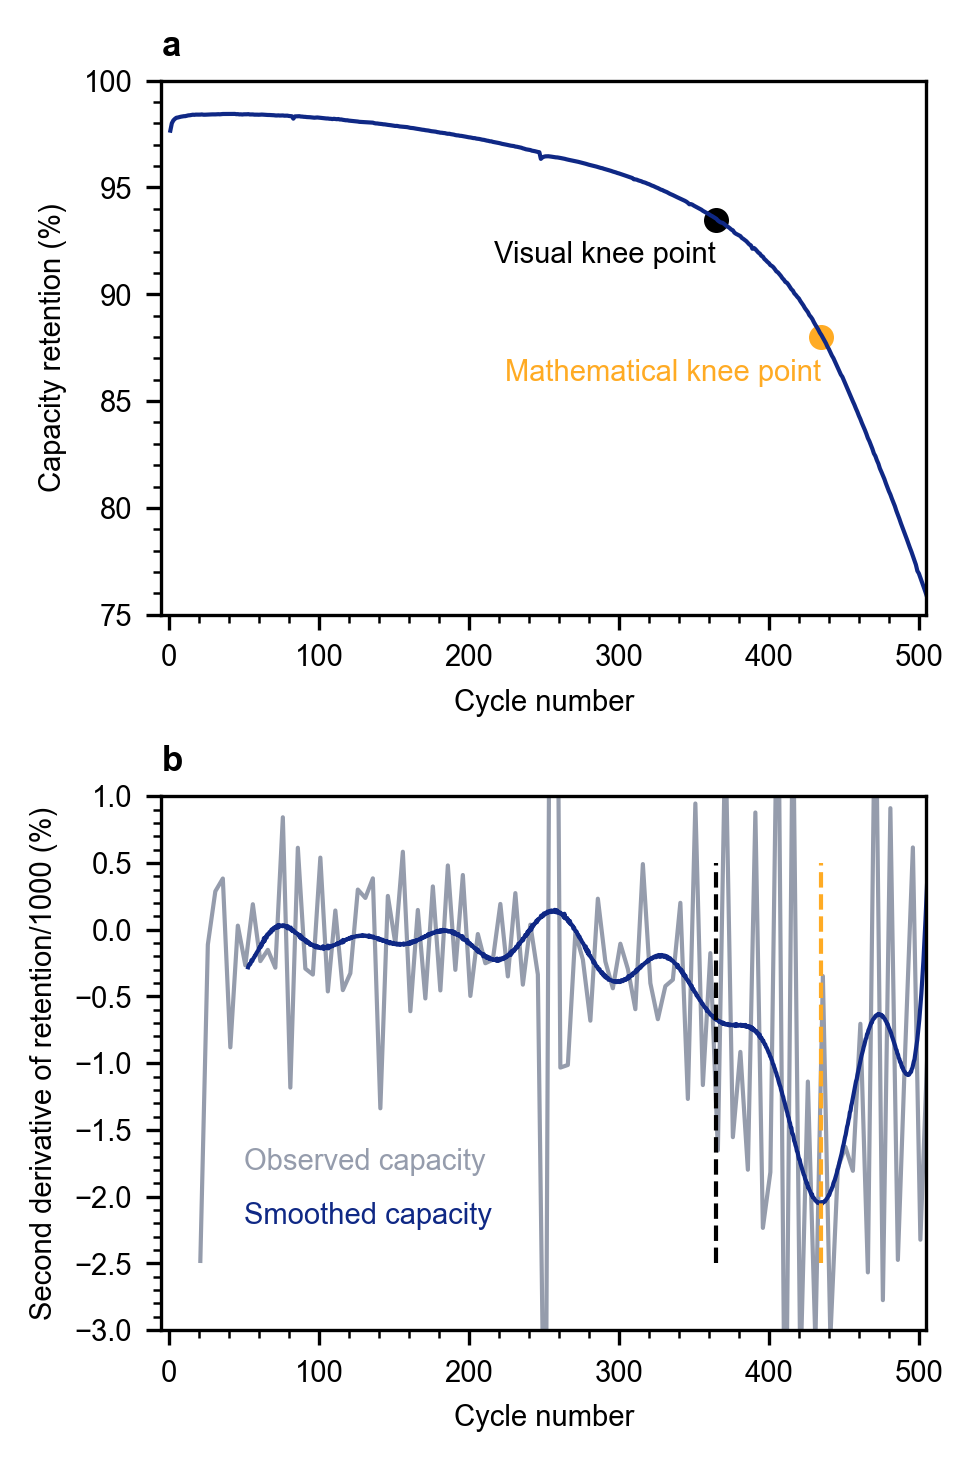
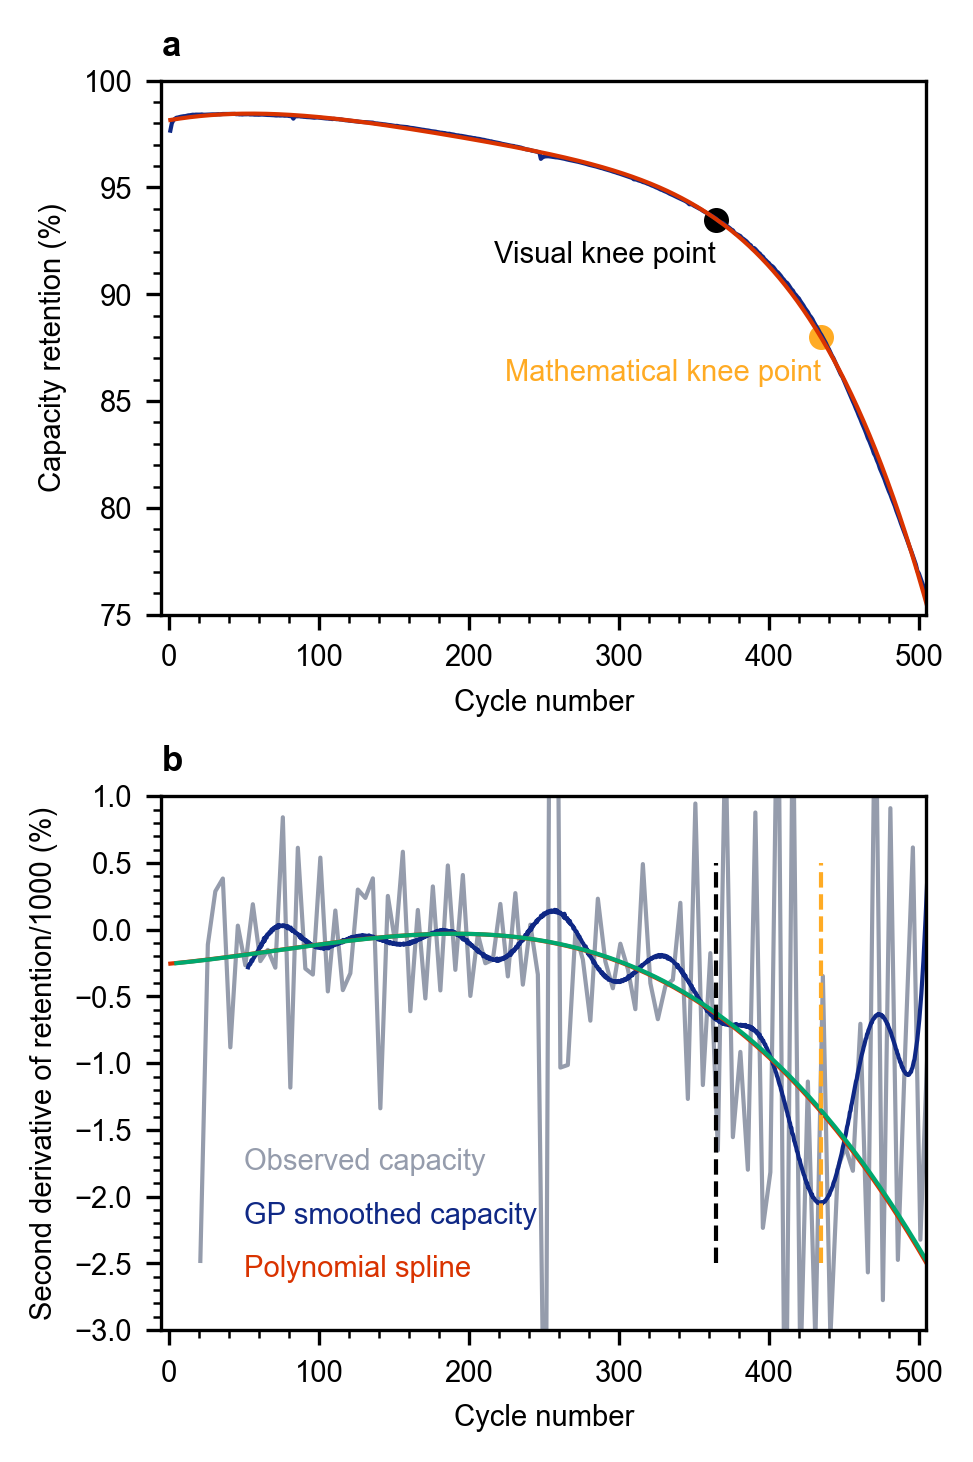
adding in the spline smoothing method

diff --git a/code/figure_knee_identification_methods.py b/code/figure_knee_identification_methods.py
@@ -381,9 +381,16 @@ dq2dt2(ax[1],t[np.array(range(n0,n1,n2))],q[np.array(range(n0,n1,n2))],grey)
 # second, this is a smoothed capacity curve which produces a nice results:
 dq2dt2(ax[1],t_gpm,q_gpm,blue)
 
+# third a spline derivative that uses the spline package. the spline needs to 
+# run through data which has previously been smoothed. Fortunately that 
+spline_q = spline(t, q, k=5)
+spl_dq2 = spline_q.derivative(n=2)
+ax[1].plot(t,spl_dq2(t)*10**3,color=red)
+
 # add text to label the two curves
 ax[1].text(50,-1.8,'Observed capacity',color=grey)
-ax[1].text(50,-2.2,'Smoothed capacity',color=blue)
+ax[1].text(50,-2.2,'GP smoothed capacity',color=blue)
+ax[1].text(50,-2.6,'Polynomial spline',color=red)
 
 ax[1].set_ylabel('Second derivative of retention/1000 (%)')
 
@@ -398,7 +405,6 @@ ax[1].set_ylim([-3, 1])
 # dq2dt2(ax[1],t_gpm,qσ_gpm,jade)
 # ax[1].text(10,-2.50,'Added noise, σ='+str(σ)+'% capacity',color=jade)
 
-
 for j in range(len(ax)):
     ax[j].set_xlabel('Cycle number')
     ax[j].set_xlim([-5, 505])
@@ -409,7 +415,6 @@ fig.tight_layout()
 # Save figure as both .PNG and .EPS
 fig.savefig(config.FIG_PATH / "knee_definition.png", format="png", dpi=300)
 fig.savefig(config.FIG_PATH / "knee_definition.eps", format="eps")
-
 
 # KNEE IDENTIFICATION METHODS ================== FIGURE 4
 m = pd.read_csv(path / 'severson2019_b2c30_health_fig04.csv')
